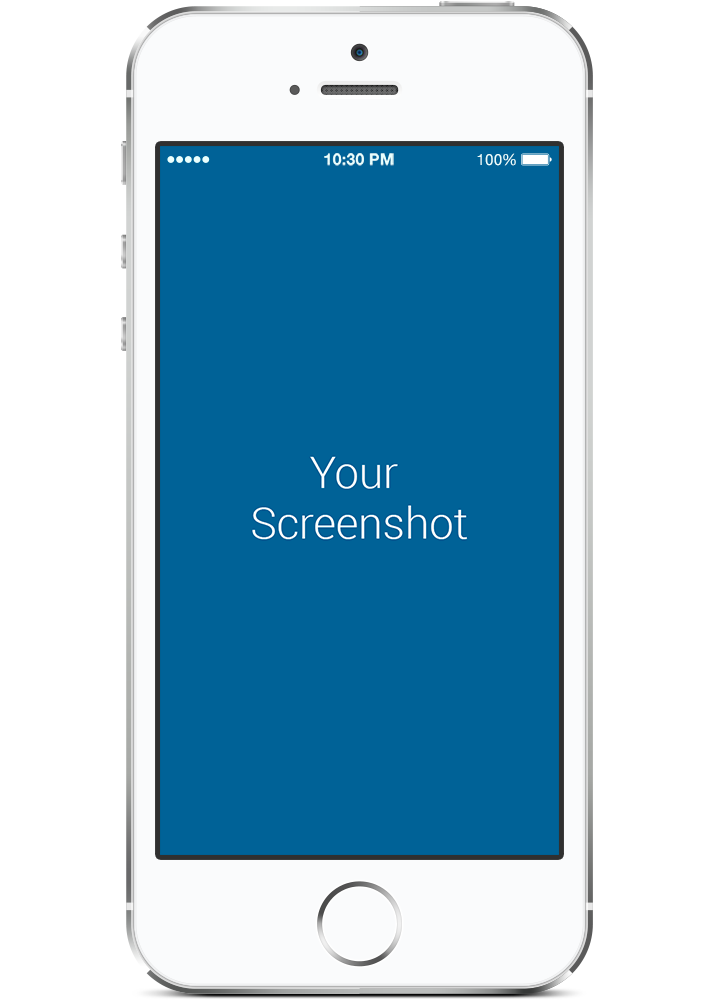
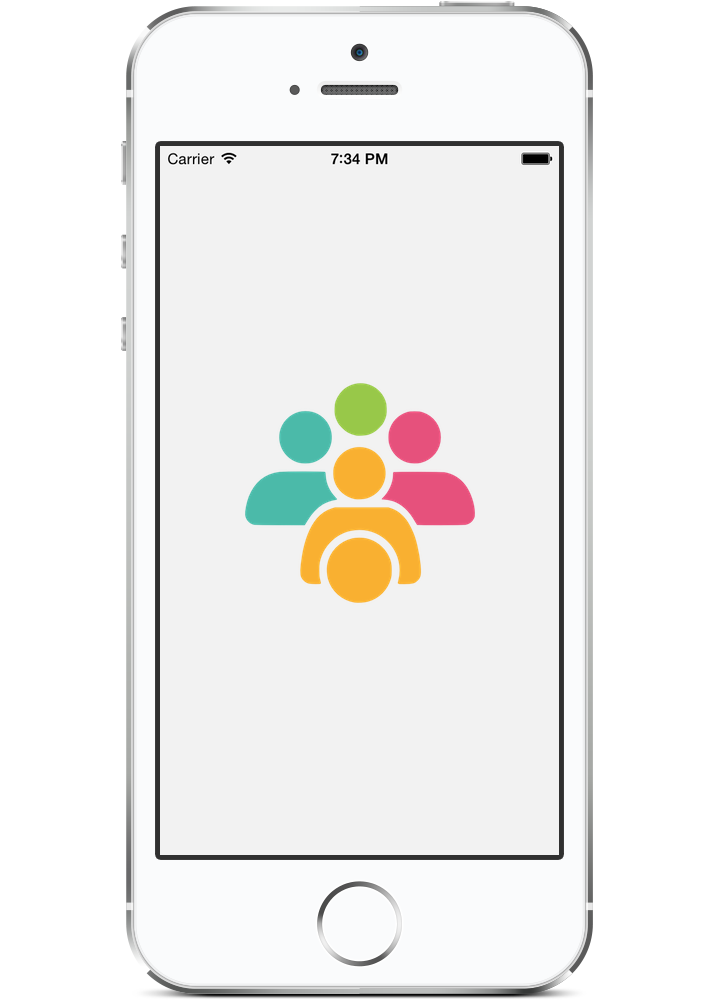
home

diff --git a/app/views/index.html b/app/views/index.html
@@ -817,7 +817,7 @@
 <div class="container">
 	
 	<!-- LOGO -->
-	<img src="/static/images/logo-black.png" alt="LOGO" class="logo responsive-img">
+	<img src="/static/images/logo-colors.png" class="logo responsive-img">
 	
 	<!-- SOCIAL ICONS -->
 	<ul class="social-icons">
